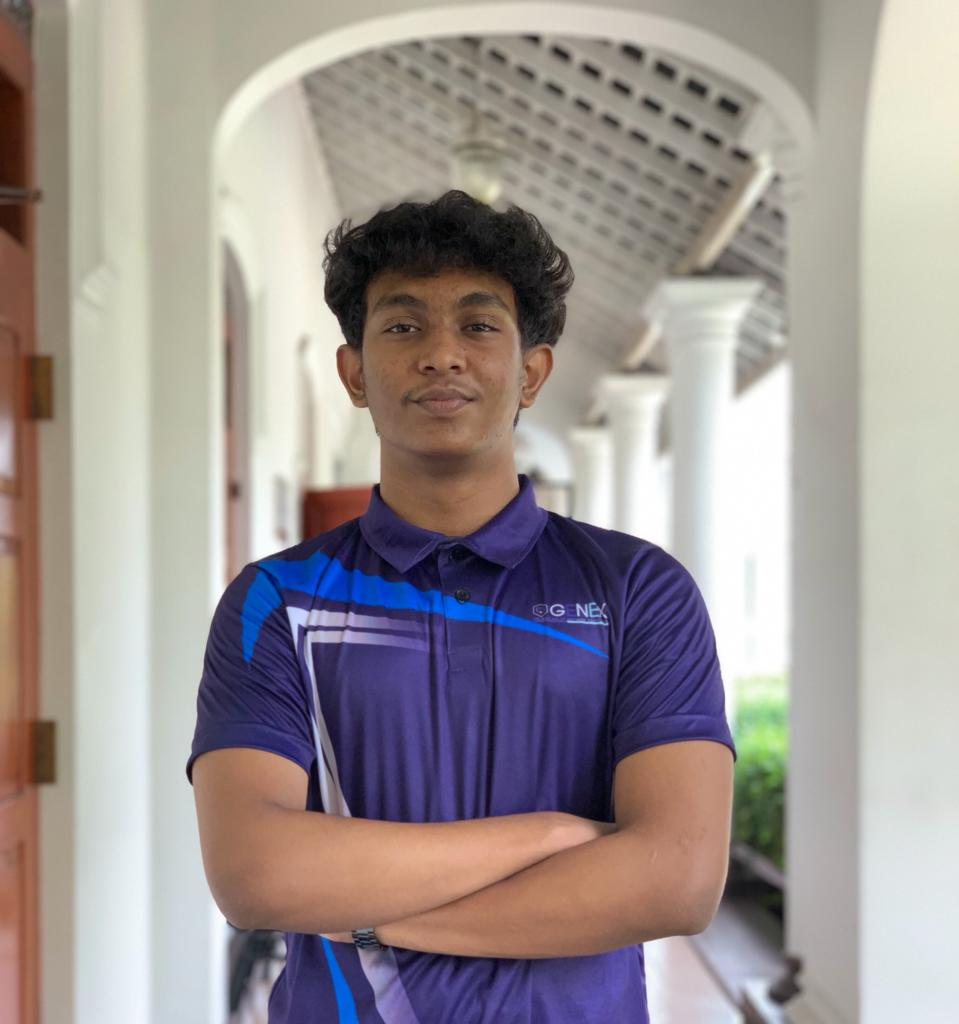
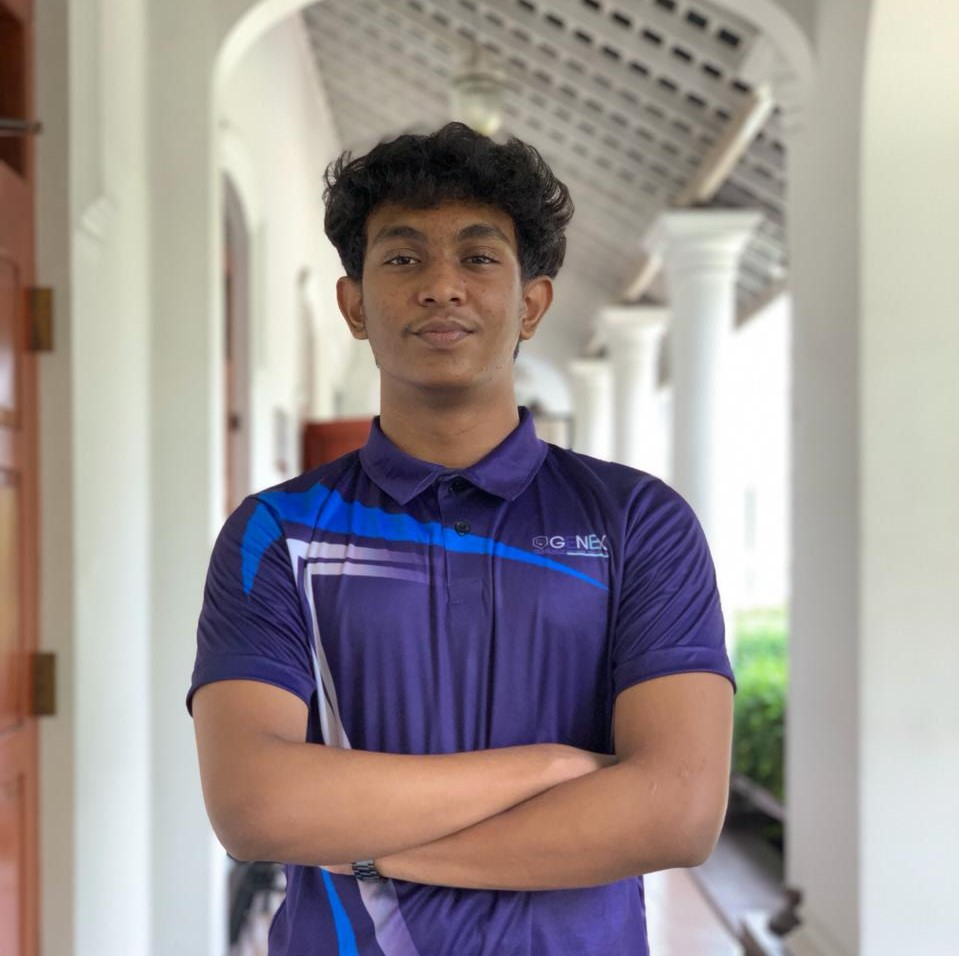
update7

diff --git a/index.html b/index.html
@@ -285,7 +285,7 @@
           <div class="col-lg-6 or-1 wow animate fadeIn" data-wow-delay="200ms" data-wow-duration="1500ms">
             <div class="about-right layout2">
               <div class="banner-1">
-                <img src="assets/img/team/team-photo-1.jpg" alt />
+                <img src="assets/img/team/team-photo-3.jpg" alt />
               </div>
               <div class="banner-2">
                 <img src="assets/img/team/team-photo-2.jpg" alt />
@@ -474,8 +474,8 @@
                 <div class="quote">
                   <i class="fas fa-quote-right"></i>
                 </div>
-                <h5>Walter White</h5>
-                <span>Executive Chairman</span>
+                <h5>Kosala Sandaruwan</h5>
+                <span>Student</span>
                 <div class="stars">
                   <a href="#"><i class="fas fa-star"></i></a>
                   <a href="#"><i class="fas fa-star"></i></a>
@@ -484,12 +484,12 @@
                   <a href="#"><i class="fas fa-star"></i></a>
                 </div>
                 <p>
-                  Outstanding service! Their software solutions transformed our business. The team's dedication and
-                  expertise exceeded our expectations. Highly recommend for anyone seeking top-notch software
-                  development and design services.
+                  "Impressive experience with this new software company! Their innovative solutions have truly
+                  streamlined our operations. As a startup, they're setting the bar high for customer service and
+                  reliability."
                 </p>
                 <div class="reviewer">
-                  <img src="assets/img/reivewer.jpg" alt />
+                  <img src="assets/img/Reviewer/Reviewer1.jpeg" alt />
                 </div>
               </div>
             </div>
@@ -774,7 +774,7 @@
             <div class="swiper-slide wow animate fadeInUp" data-wow-delay="200ms" data-wow-duration="1500ms">
               <div class="single-team layout2">
                 <div class="member-img">
-                  <img src="assets/img/team/ravindu.jpeg" alt />
+                  <img src="assets/img/team/Kasun.jpeg" alt />
                   <svg width="185" height="299" viewBox="0 0 167 269" fill="none" xmlns="http://www.w3.org/2000/svg">
                     <path fill-rule="evenodd" clip-rule="evenodd"
                       d="M4.25412 0.814453C1.68125 2.62384 0 5.61553 0 8.99991V269H167C167 269 47 269 66.5 112.171C75.5581 39.3209 20.2679 8.22409 4.25412 0.814453Z"
@@ -804,7 +804,7 @@
             <div class="swiper-slide wow animate fadeInUp" data-wow-delay="200ms" data-wow-duration="1500ms">
               <div class="single-team layout2">
                 <div class="member-img">
-                  <img src="assets/img/team/ravindu.jpeg" alt />
+                  <img src="assets/img/team/hirun.jpeg" alt />
                   <svg width="185" height="299" viewBox="0 0 167 269" fill="none" xmlns="http://www.w3.org/2000/svg">
                     <path fill-rule="evenodd" clip-rule="evenodd"
                       d="M4.25412 0.814453C1.68125 2.62384 0 5.61553 0 8.99991V269H167C167 269 47 269 66.5 112.171C75.5581 39.3209 20.2679 8.22409 4.25412 0.814453Z"
@@ -834,7 +834,7 @@
             <div class="swiper-slide wow animate fadeInUp" data-wow-delay="200ms" data-wow-duration="1500ms">
               <div class="single-team layout2">
                 <div class="member-img">
-                  <img src="assets/img/team/ravindu.jpeg" alt />
+                  <img src="assets/img/team/Tanuri.jpeg" alt />
                   <svg width="185" height="299" viewBox="0 0 167 269" fill="none" xmlns="http://www.w3.org/2000/svg">
                     <path fill-rule="evenodd" clip-rule="evenodd"
                       d="M4.25412 0.814453C1.68125 2.62384 0 5.61553 0 8.99991V269H167C167 269 47 269 66.5 112.171C75.5581 39.3209 20.2679 8.22409 4.25412 0.814453Z"

diff --git a/team.html b/team.html
@@ -129,9 +129,8 @@
             <span>Our Team</span>
             <h2>Meet Our Team</h2>
             <p>
-              Curabitur sed facilisis erat. Vestibulum pharetra eros eget
-              fringilla porttitor. on Duis a orci nunc. Suspendisse ac
-              convallis sapien, quis commodo libero.
+              Our diverse team of skilled professionals brings creativity and expertise to every project, ensuring
+              innovation and excellence in every endeavor.
             </p>
           </div>
         </div>
@@ -255,7 +254,7 @@
                   </ul>
                 </div>
                 <div class="team-inner">
-                  <h4>Janidu Magamage</h4>
+                  <h4>Janindu Magamage</h4>
                   <span>UI/UX Designer</span>
                 </div>
               </div>
@@ -326,7 +325,7 @@
             <div class="swiper-slide wow animate fadeInUp" data-wow-delay="400ms" data-wow-duration="1500ms">
               <div class="single-team">
                 <div class="member-img">
-                  <img src="assets/img/team/thilina.jpeg" alt />
+                  <img src="assets/img/team/Kasun.jpeg" alt />
                   <svg width="185" height="299" viewBox="0 0 167 269" fill="none" xmlns="http://www.w3.org/2000/svg">
                     <path fill-rule="evenodd" clip-rule="evenodd"
                       d="M4.25412 0.814453C1.68125 2.62384 0 5.61553 0 8.99991V269H167C167 269 47 269 66.5 112.171C75.5581 39.3209 20.2679 8.22409 4.25412 0.814453Z"
@@ -357,7 +356,7 @@
             <div class="swiper-slide wow animate fadeInUp" data-wow-delay="400ms" data-wow-duration="1500ms">
               <div class="single-team">
                 <div class="member-img">
-                  <img src="assets/img/team/thilina.jpeg" alt />
+                  <img src="assets/img/team/hirun.jpeg" alt />
                   <svg width="185" height="299" viewBox="0 0 167 269" fill="none" xmlns="http://www.w3.org/2000/svg">
                     <path fill-rule="evenodd" clip-rule="evenodd"
                       d="M4.25412 0.814453C1.68125 2.62384 0 5.61553 0 8.99991V269H167C167 269 47 269 66.5 112.171C75.5581 39.3209 20.2679 8.22409 4.25412 0.814453Z"
@@ -388,7 +387,7 @@
             <div class="swiper-slide wow animate fadeInUp" data-wow-delay="400ms" data-wow-duration="1500ms">
               <div class="single-team">
                 <div class="member-img">
-                  <img src="assets/img/team/thilina.jpeg" alt />
+                  <img src="assets/img/team/Tanuri.jpeg" alt />
                   <svg width="185" height="299" viewBox="0 0 167 269" fill="none" xmlns="http://www.w3.org/2000/svg">
                     <path fill-rule="evenodd" clip-rule="evenodd"
                       d="M4.25412 0.814453C1.68125 2.62384 0 5.61553 0 8.99991V269H167C167 269 47 269 66.5 112.171C75.5581 39.3209 20.2679 8.22409 4.25412 0.814453Z"
